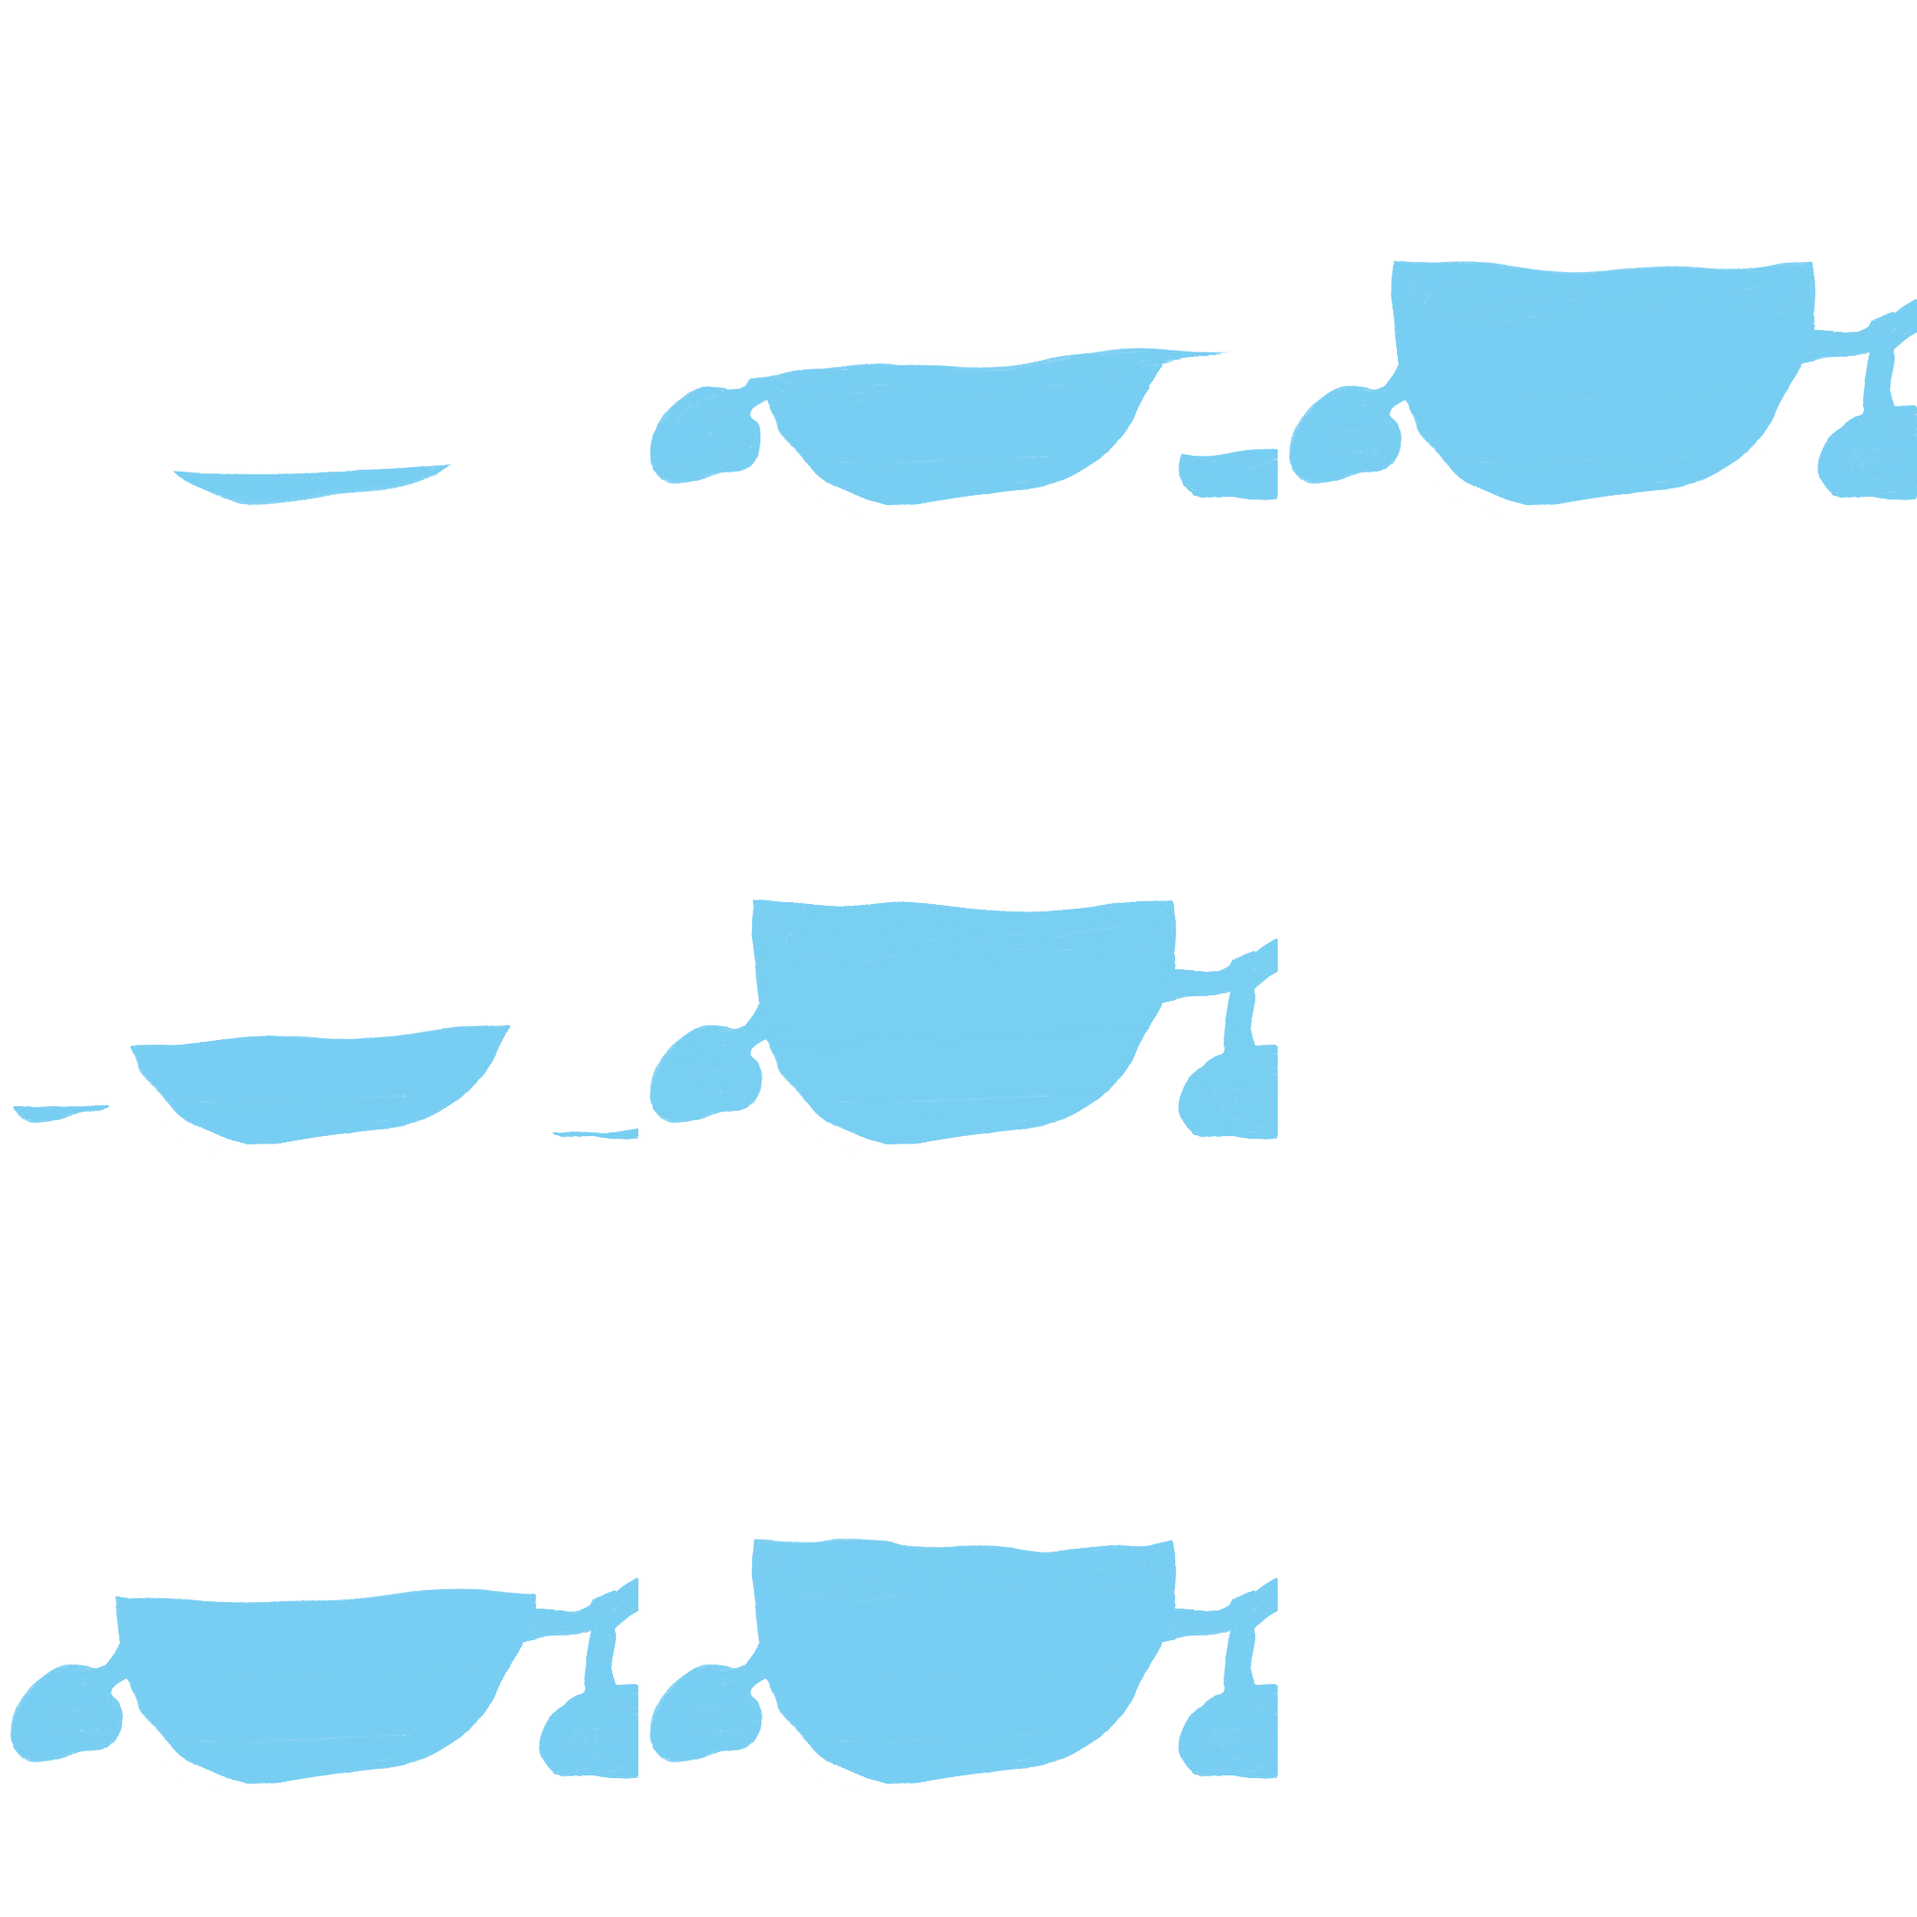
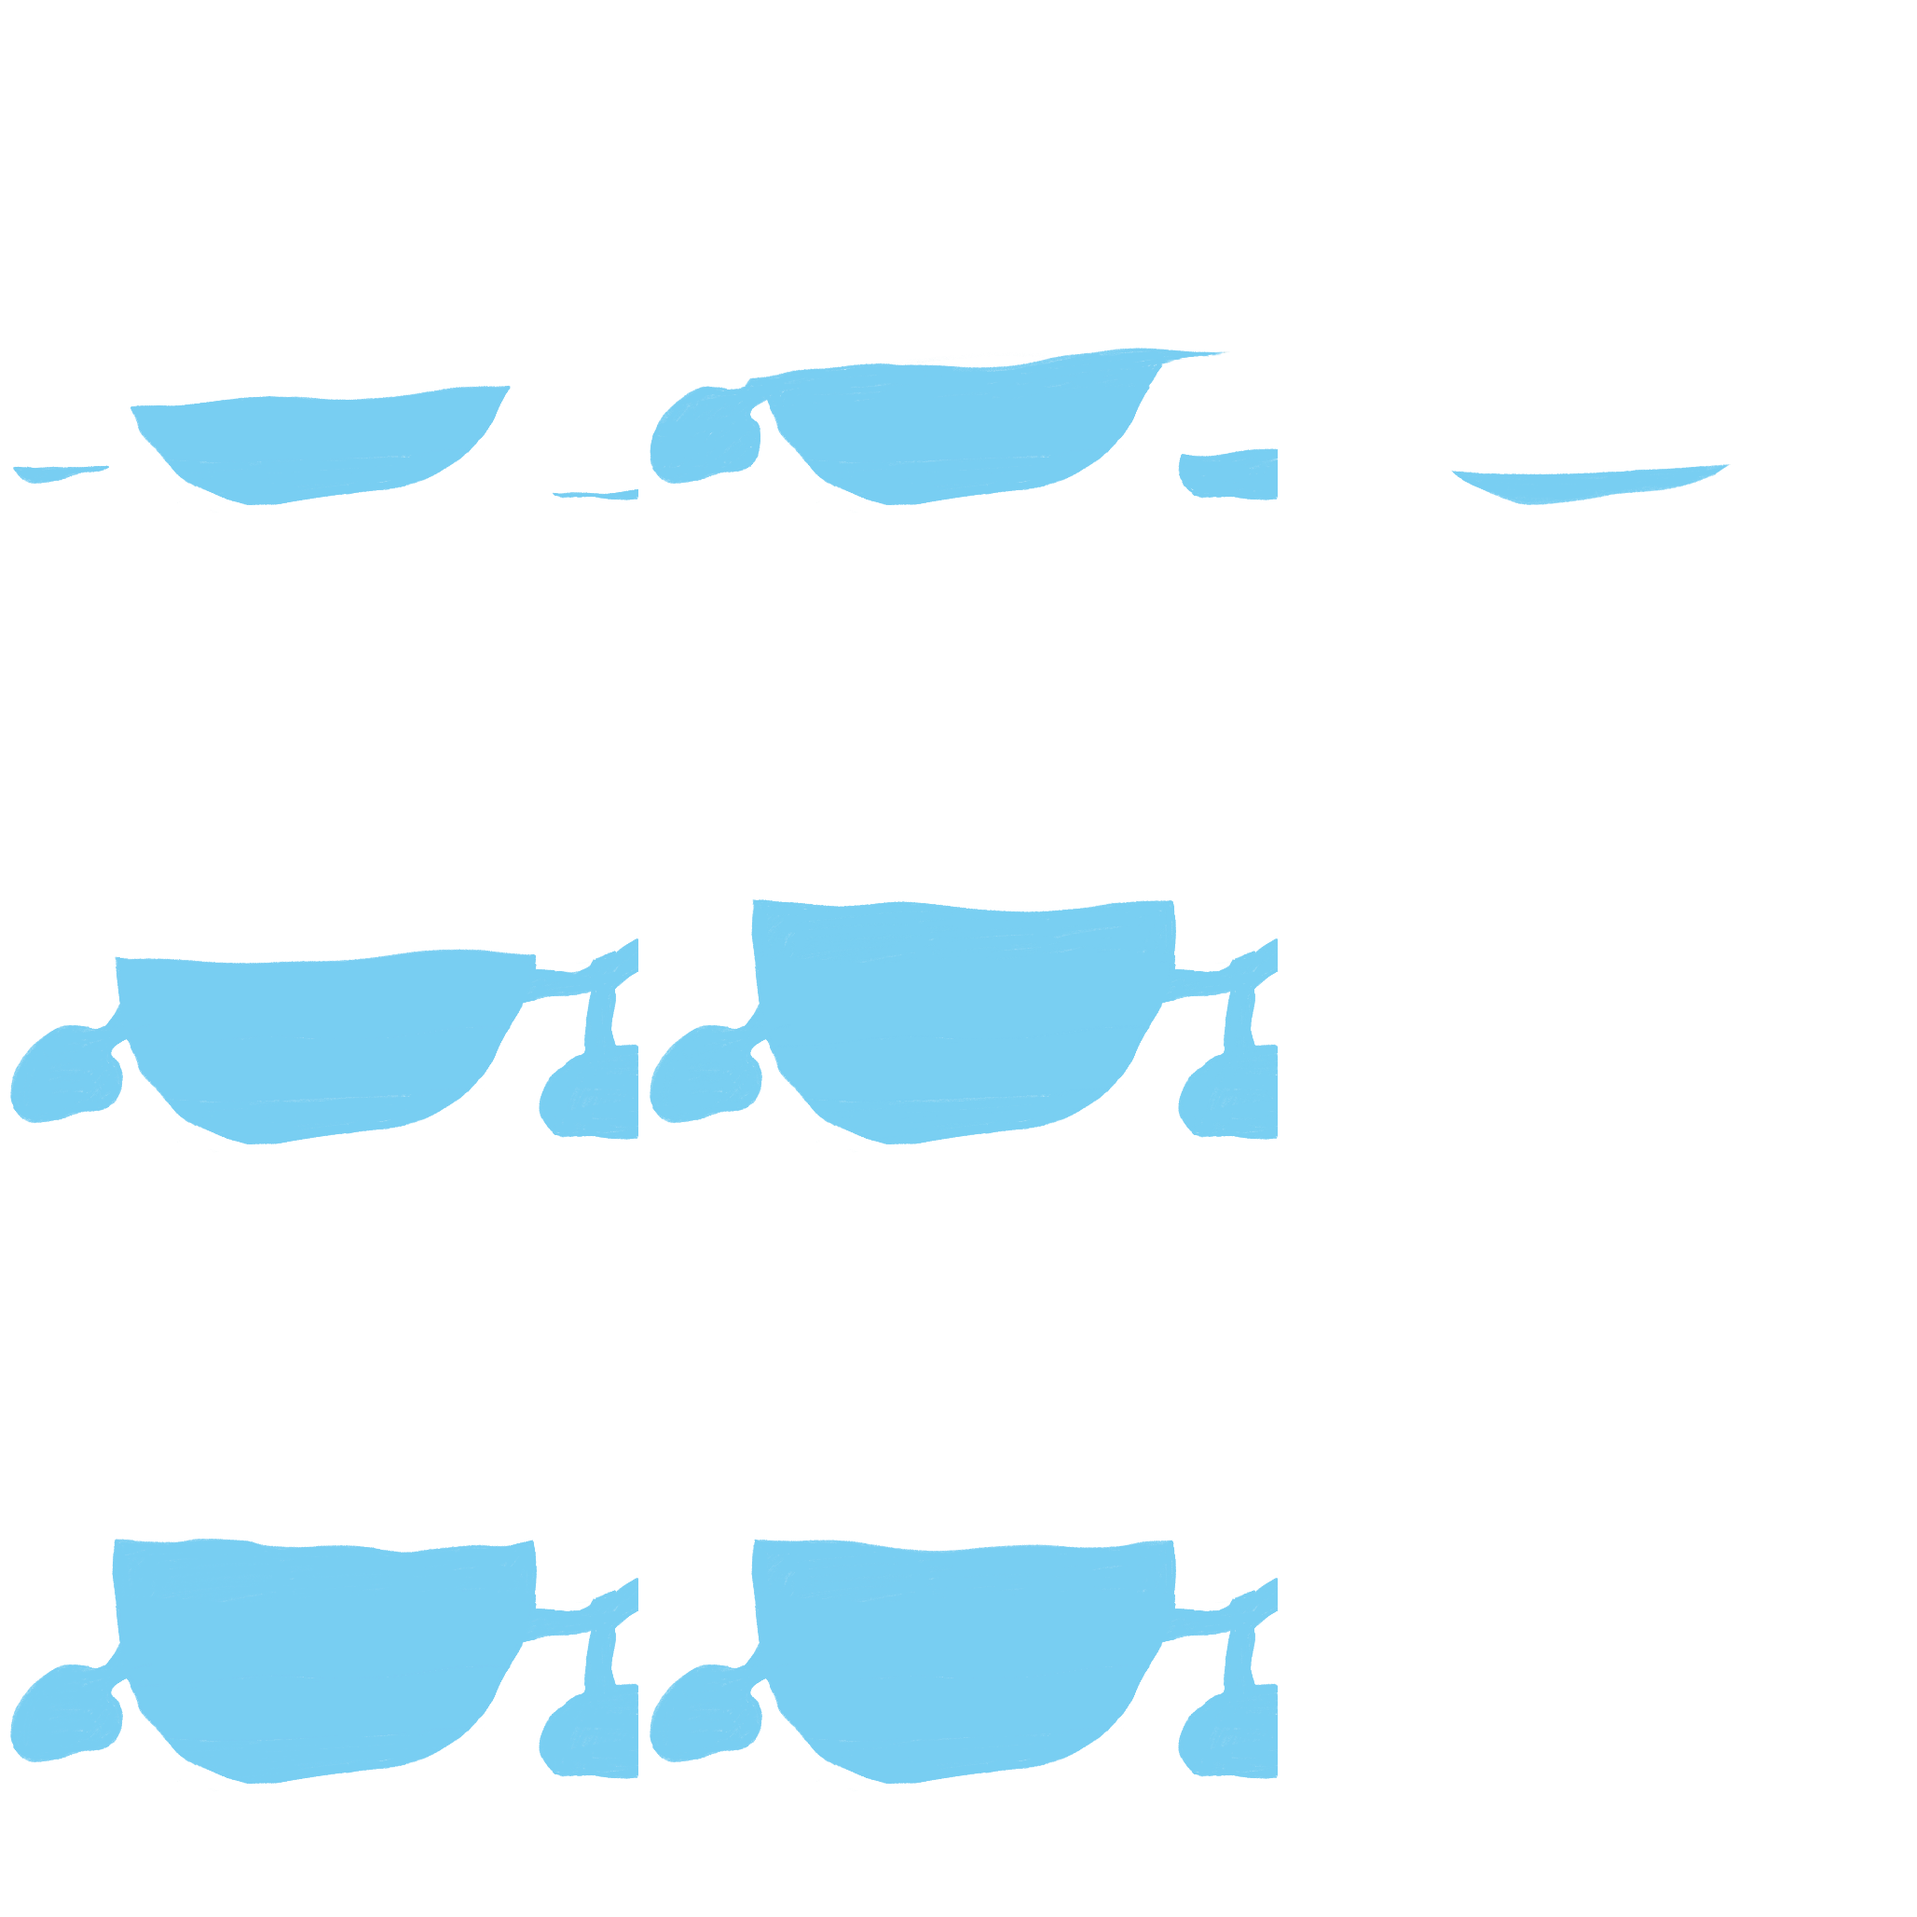
feat: implement water dinosaur evolution sequence and add associated assets

diff --git a/game.js b/game.js
@@ -57,8 +57,10 @@ const CONFIG = {
         { key: 'back_to_egg_loop', atlas: 'back_to_egg_atlas', prefix: 'back_to_egg_', start: 9, end: 11, repeat: -1 },
         { key: 'robot_dinosaur_full', atlas: 'robot_dinosaur_atlas', prefix: 'robot_dinosaur_', end: 9, repeat: 0 },
         { key: 'robot_dinosaur_loop', atlas: 'robot_dinosaur_atlas', prefix: 'robot_dinosaur_', start: 6, end: 9, repeat: -1 },
-        { key: 'water_full', atlas: 'water_atlas', prefix: 'water-', end: 7, repeat: 0 },
-        { key: 'water_loop', atlas: 'water_atlas', prefix: 'water-', start: 5, end: 7, repeat: -1 },
+        { key: 'water_full', atlas: 'water_atlas', prefix: 'water_', end: 7, repeat: 0 },
+        { key: 'water_loop', atlas: 'water_atlas', prefix: 'water_', start: 5, end: 7, repeat: -1 },
+        { key: 'water_dinosaur_full', atlas: 'water_dinosaur_atlas', prefix: 'water_dinosaur_', end: 14, repeat: 0 },
+        { key: 'water_dinosaur_loop', atlas: 'water_dinosaur_atlas', prefix: 'water_dinosaur_', start: 11, end: 14, repeat: -1 },
     ]
 };
 
@@ -73,7 +75,7 @@ const ALL_DINOSAURS = [
     { key: 'three_body_dinosaur', name: 'Three-Body Dino', atlas: 'three_body_dinosaur_atlas', frame: 'three_body_dinosaur_15' },
     { key: 'cake_dinosaur', name: 'Cake Dino', atlas: 'cake_dinosaur_atlas', frame: 'cake_dinosaur_13' },
     { key: 'robot_dinosaur', name: 'Robot Dino', atlas: 'robot_dinosaur_atlas', frame: 'robot_dinosaur_8' },
-    { key: 'ending_10', name: '???', atlas: '', frame: '' },
+    { key: 'water_dinosaur', name: 'Water Dino', atlas: 'water_dinosaur_atlas', frame: 'water_dinosaur_13' },
     { key: 'ending_11', name: '???', atlas: '', frame: '' },
     { key: 'ending_12', name: '???', atlas: '', frame: '' },
 ];
@@ -740,16 +742,41 @@ class GameScene extends Phaser.Scene {
 
     evolveToWater() {
         if (!this.eggSprite.active) return;
-        this.eggSprite.stop().setTexture('water_atlas', 'water-1');
-        
-        this.eggSprite.setScale(1);
-        this.eggSprite.setDisplaySize(CONFIG.WIDTH, CONFIG.HEIGHT);
-        this.eggSprite.setPosition(this.game.config.width / 2, this.game.config.height / 2);
 
-        this.eggSprite.play('water_full');
-        this.eggSprite.once('animationcomplete-water_full', () => {
-            if (this.eggSprite.active) {
-                this.eggSprite.play('water_loop');
+        // Ensure dinosaur is playing horns_loop
+        if (this.eggSprite.anims.currentAnim && this.eggSprite.anims.currentAnim.key !== 'horns_loop') {
+            this.eggSprite.play('horns_loop');
+        }
+
+        // Create water sprite overlay
+        const waterSprite = this.add.sprite(this.game.config.width / 2, this.game.config.height / 2, 'water_atlas', 'water-1')
+            .setDisplaySize(CONFIG.WIDTH, CONFIG.HEIGHT)
+            .setDepth(this.eggSprite.depth + 1)
+            .setAlpha(0.6);
+
+        waterSprite.play('water_full');
+
+        const onWaterAnimUpdate = (anim, frame) => {
+            if (anim.key === 'water_full' && frame.textureFrame === 'water_4') {
+                waterSprite.off('animationupdate', onWaterAnimUpdate);
+
+                // Dinosaur becomes water_dinosaur
+                this.eggSprite.stop().setTexture('water_dinosaur_atlas', 'water_dinosaur_1').setScale(CONFIG.EGG_SCALE);
+
+                this.eggSprite.play('water_dinosaur_full');
+                this.eggSprite.once('animationcomplete-water_dinosaur_full', () => {
+                    if (this.eggSprite.active) {
+                        this.eggSprite.play('water_dinosaur_loop');
+                        this.time.delayedCall(1500, () => this.triggerEndingSequence('Water Dino', 'water_dinosaur'));
+                    }
+                });
+            }
+        };
+        waterSprite.on('animationupdate', onWaterAnimUpdate);
+
+        waterSprite.once('animationcomplete-water_full', () => {
+            if (waterSprite.active) {
+                waterSprite.play('water_loop');
             }
         });
     }
